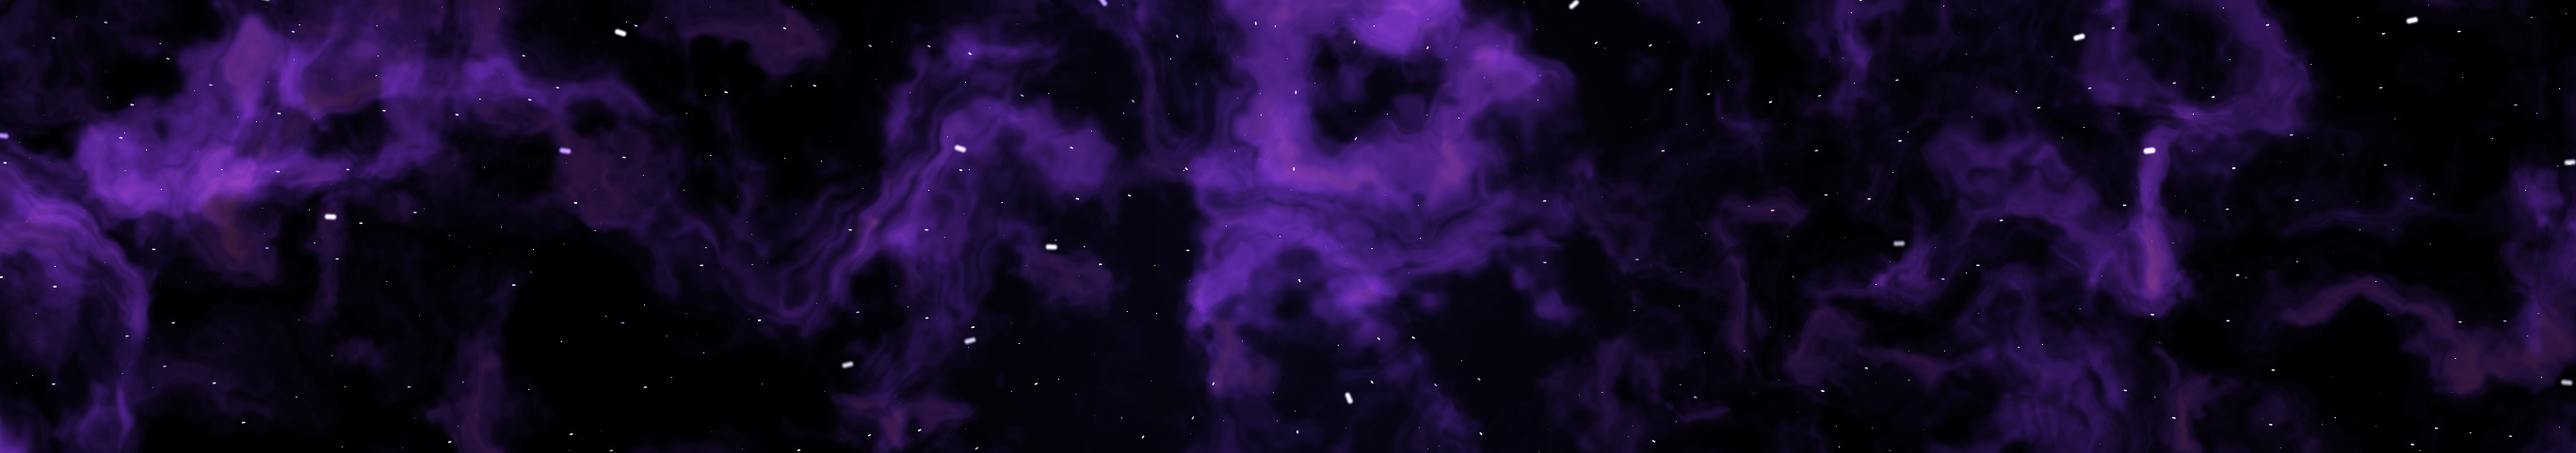
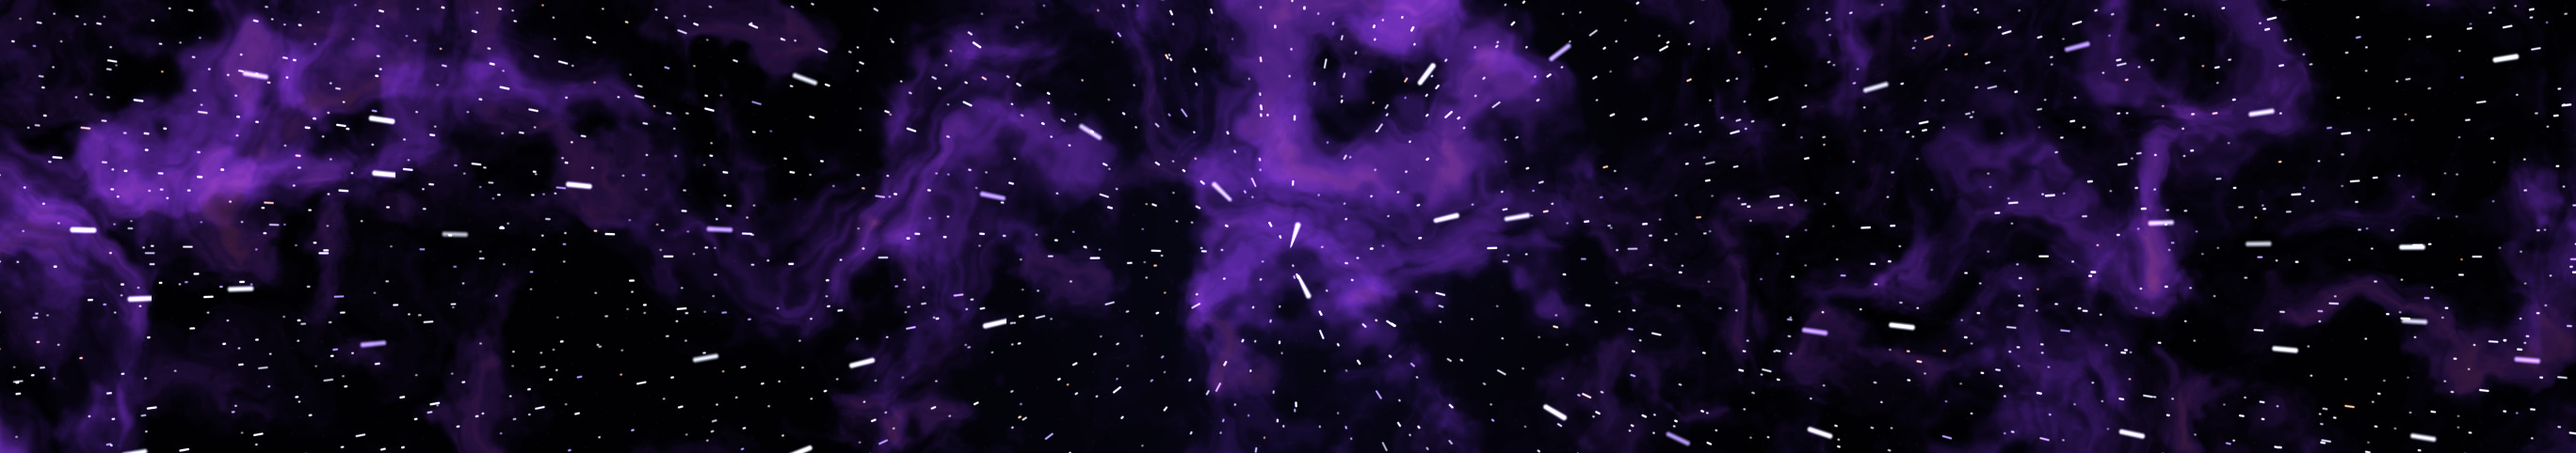
CatpitAmp: the still skies are long exposures
One frame of the GPU's sky holds few stars one can see: most are smaller
than a pixel and are seen only because they move. The four pictures are
taken again as a long exposure of the same sky — a third more stars in each
of six depths instead of four, none thinner than a pixel, and trails long
enough that a still says how fast its channel flies.

diff --git a/src/catpit/CatpitArt.h b/src/catpit/CatpitArt.h
@@ -24,9 +24,12 @@ struct Art
     static const Art& get();
 };
 
-/** THE SKY, STANDING STILL: the GPU sky's own picture at a channel's speed, the glass's whole rectangle
-    (layout::glass) at twice the render's size. Decoded when asked for rather than at startup — only one
-    of the four is ever on the glass, and only when the stars are switched off. */
+/** THE SKY, STANDING STILL: the GPU sky at a channel's speed, taken the way a long exposure takes it —
+    a single frame of that sky holds few stars one can see, most of them smaller than a pixel and seen
+    only because they move, so these carry more stars, none thinner than a pixel, on trails long enough
+    to say how fast the channel flies. The glass's whole rectangle (layout::glass) at twice the render's
+    size. Decoded when asked for rather than at startup — only one of the four is ever on the glass, and
+    only when the stars are switched off. */
 juce::Image stillSky (int channel);
 
 /** Where a render's opaque part sits — its alpha bounding box, in image pixels. The renders carry

diff --git a/src/catpit/CatpitSpace.h b/src/catpit/CatpitSpace.h
@@ -50,8 +50,8 @@ private:
 };
 
 //==============================================================================
-/** THE SKY, STANDING STILL: what the glass shows when the stars are switched off — a picture of the
-    GPU's sky at the playing channel's speed, one for each channel (Art's stillSky). Nothing flies and
+/** THE SKY, STANDING STILL: what the glass shows when the stars are switched off — a long exposure of
+    the GPU's sky at the playing channel's speed, one for each channel (Art's stillSky). Nothing flies and
     nothing is computed: the picture is fitted to the screen's pixels once and copied from then on.
     Hidden, it holds no picture at all. */
 class StillSky final : public juce::Component
